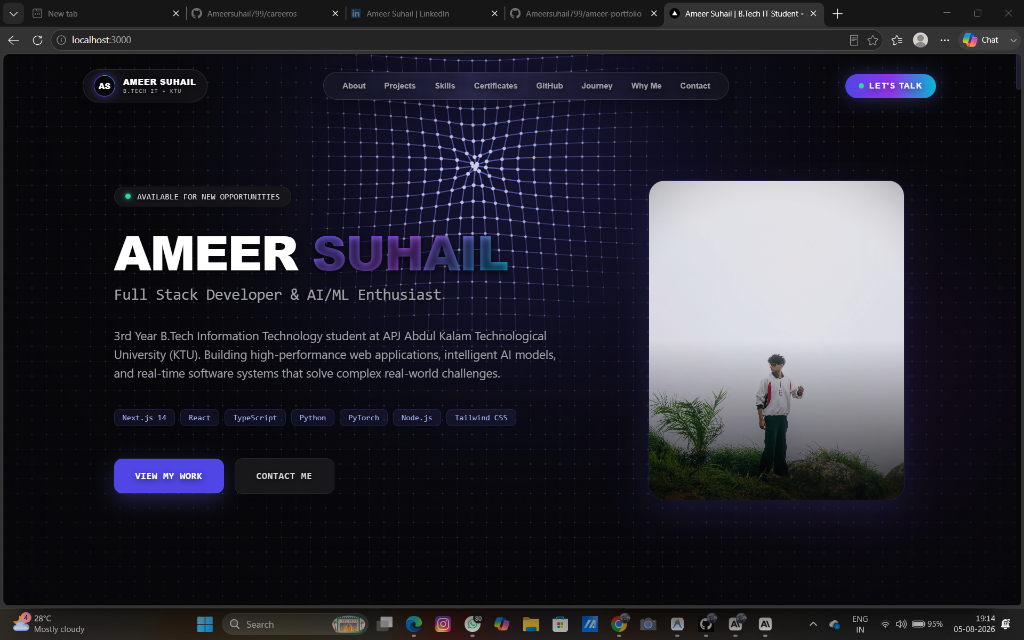
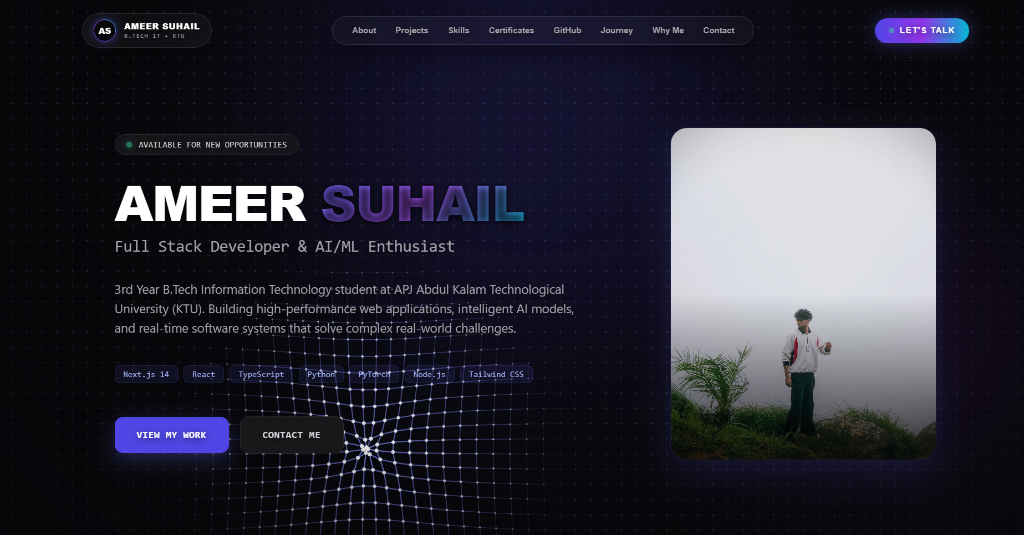
fix: update APMS & Portfolio live Vercel links and UI screenshot previews

diff --git a/src/data/projects.ts b/src/data/projects.ts
@@ -96,7 +96,7 @@ export const projects: Project[] = [
       { label: "Architecture", value: "Next.js 14 App Router" },
       { label: "Design System", value: "Cyber-Glassmorphism" },
     ],
-    liveUrl: "https://ameer-portfolio.vercel.app/",
+    liveUrl: "https://ameer-portfolio-khaki.vercel.app/",
     githubUrl: "https://github.com/Ameersuhail799/ameer-portfolio.git",
   },
   {
@@ -106,6 +106,7 @@ export const projects: Project[] = [
     category: "Full Stack",
     featured: true,
     gradient: "from-purple-900/60 via-indigo-900/40 to-cyan-950/60",
+    imageUrl: "/images/apms-preview.png",
     description: "A centralized web platform for KTU students and faculty admins to record, categorize, and verify the mandatory 100 activity credit points.",
     longDescription: "Under APJ Abdul Kalam Technological University (KTU), every B.Tech student must earn 100 activity points across sports, cultural events, hackathons, and social initiatives. Activity Point Manager simplifies this process with certificate uploads, credit calculations, status tracking, and admin verification dashboards.",
     technologies: ["JavaScript ES6+", "React", "Node.js", "Express", "MongoDB"],
@@ -120,7 +121,7 @@ export const projects: Project[] = [
       { label: "Required Credits", value: "100 Points" },
       { label: "Core Benefit", value: "Automated Credit Calc" },
     ],
-    liveUrl: "https://github.com/Ameersuhail799/ameer-portfolio.git",
+    liveUrl: "https://apms-activity-points.vercel.app/",
     githubUrl: "https://github.com/Ameersuhail799/ameer-portfolio.git",
   },
   {
